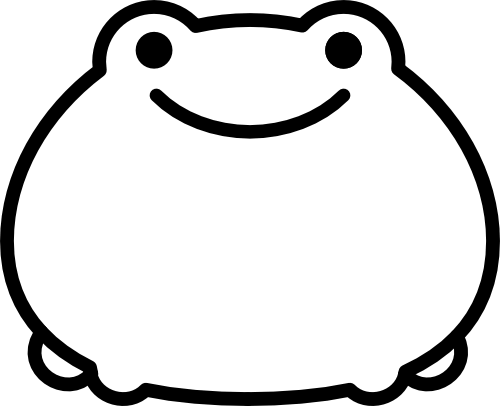
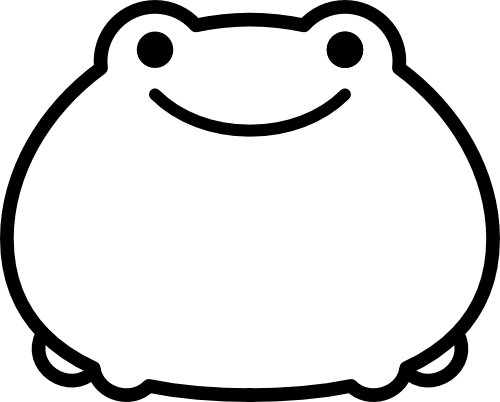
fix symmetry issue

diff --git a/index.html b/index.html
@@ -49,6 +49,6 @@
 </head>
 
 <body>
-  <img src="images/transparent-gay-frog.png" srcset="images/transparent-gay-frog-1x.png 500w, images/transparent-gay-frog-2x.png 1000w" sizes="500px" width="500" height="406" alt="">
+  <img src="images/transparent-gay-frog.png" srcset="images/transparent-gay-frog-1x.png 500w, images/transparent-gay-frog-2x.png 1000w" sizes="500px" width="500" height="402" alt="">
 </body>
 </html>
